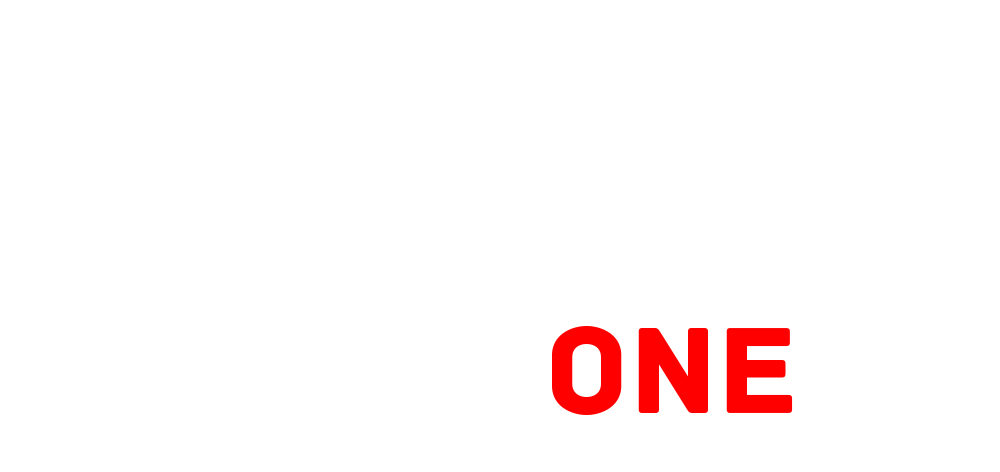
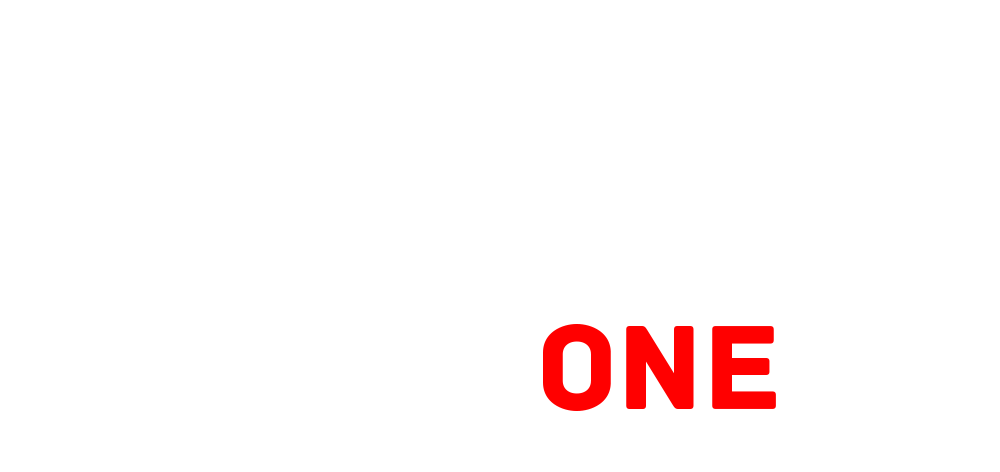
change image of supporting

Changed region(s): [[0.527, 0.6822, 0.806, 0.8898]]

diff --git a/index.html b/index.html
@@ -3,7 +3,7 @@
 <head>
 	<meta charset = "utf-8">
 	<meta name="viewport" content="width=device-width, initial-scale=1">
-	<title>Ready Buyer One</title>
+	<title>Ready Buyer One - Life Rewarded</title>
 	<link rel="stylesheet" href="https://fonts.googleapis.com/css?family=Roboto:400,300,500,100">
 	<!-- Latest compiled and minified CSS -->
 	<link rel="stylesheet" href="https://maxcdn.bootstrapcdn.com/bootstrap/3.3.5/css/bootstrap.min.css">
@@ -38,7 +38,7 @@
 		<div class="supporting container">
 			<div class="row">
 				<div class="col-md-4">
-					<img src="images/cloud.svg">
+					<img src="images/cloud.png">
 				</div>
 				<div class="col-md-8">
 					<h1>The Innovation of Decentralized Commerce</h1>

diff --git a/style.css b/style.css
@@ -62,7 +62,7 @@ header .btn:hover {
 }
 
 nav {
-  background-color: #000;
+  background-image: linear-gradient(to bottom, #000000, #ff0000);
 }
 
 nav ul {
@@ -92,8 +92,8 @@ nav li:hover {
 }
 
 .supporting img {
-  margin-top: 50px;
-  width: 90%;
+  margin-top: 0px;
+  width: 100%;
 }
 
 .supporting h1 {
